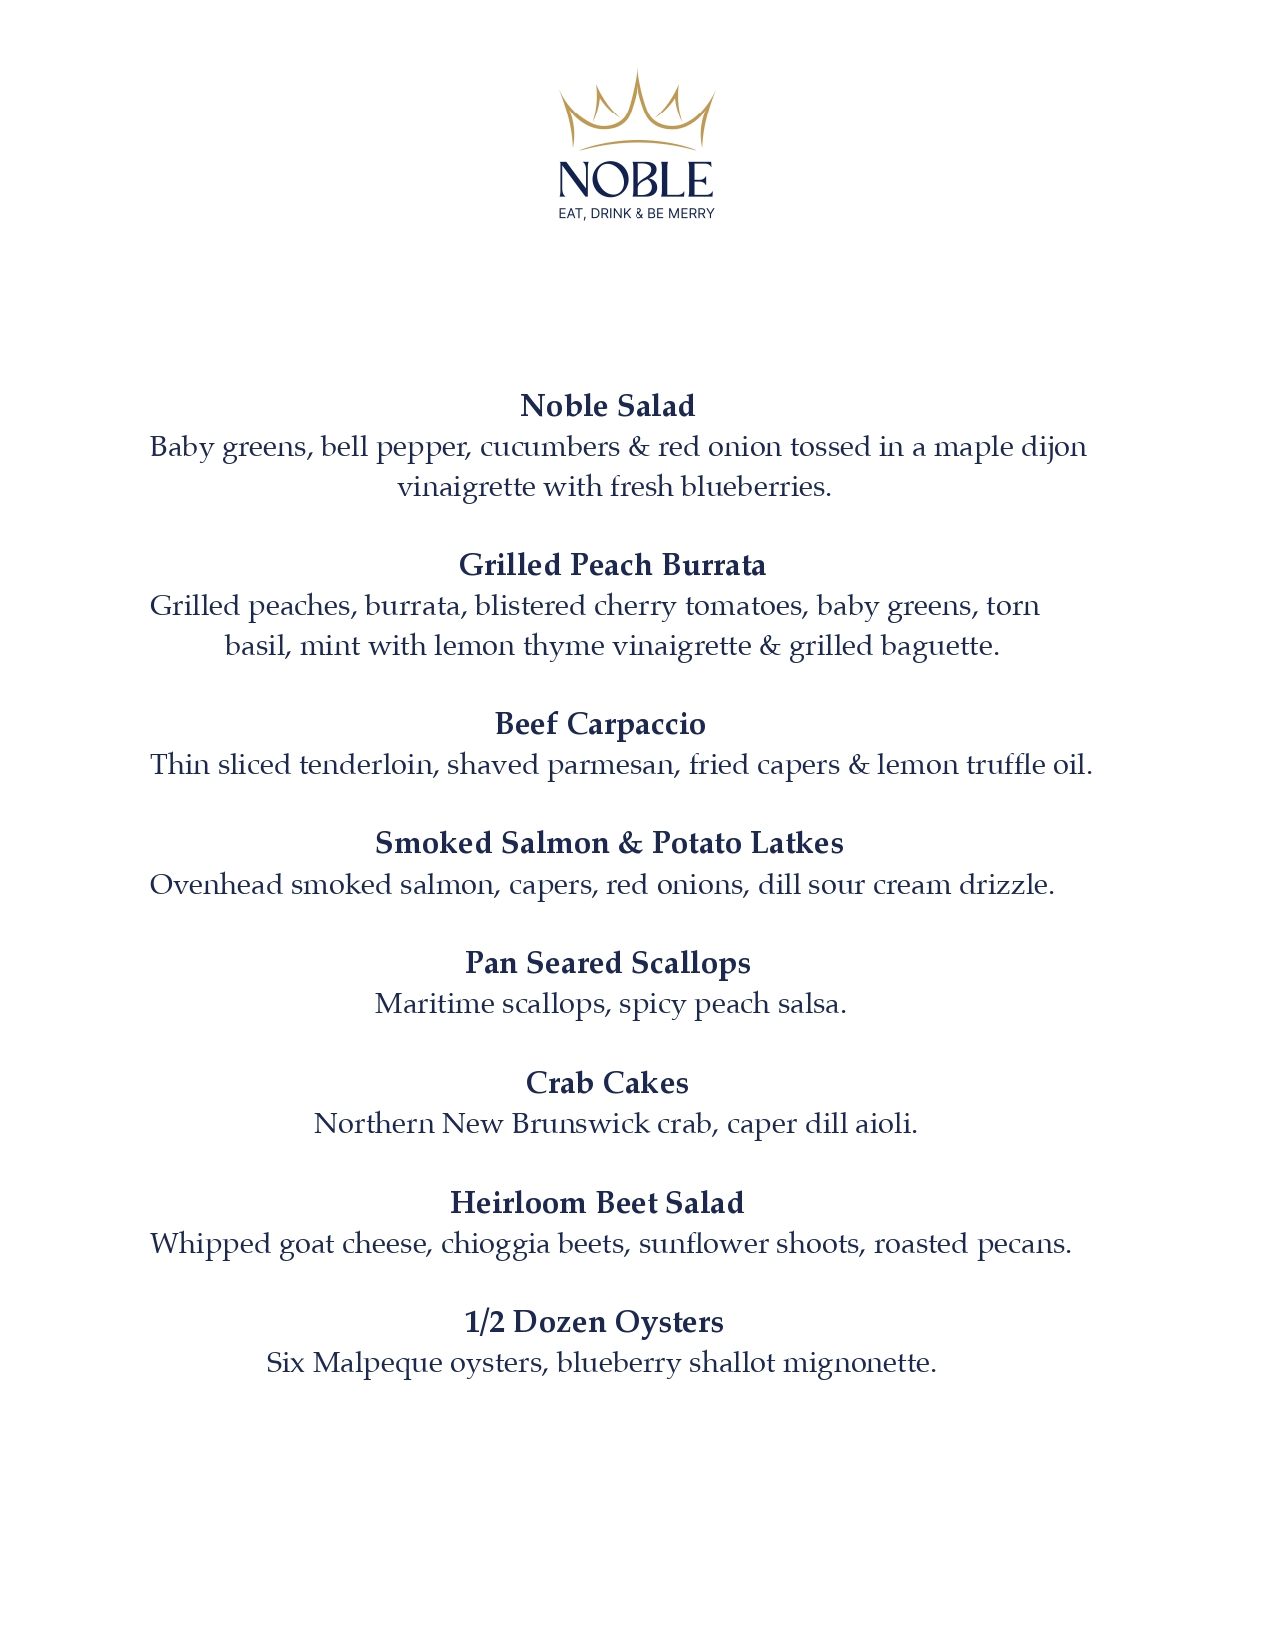
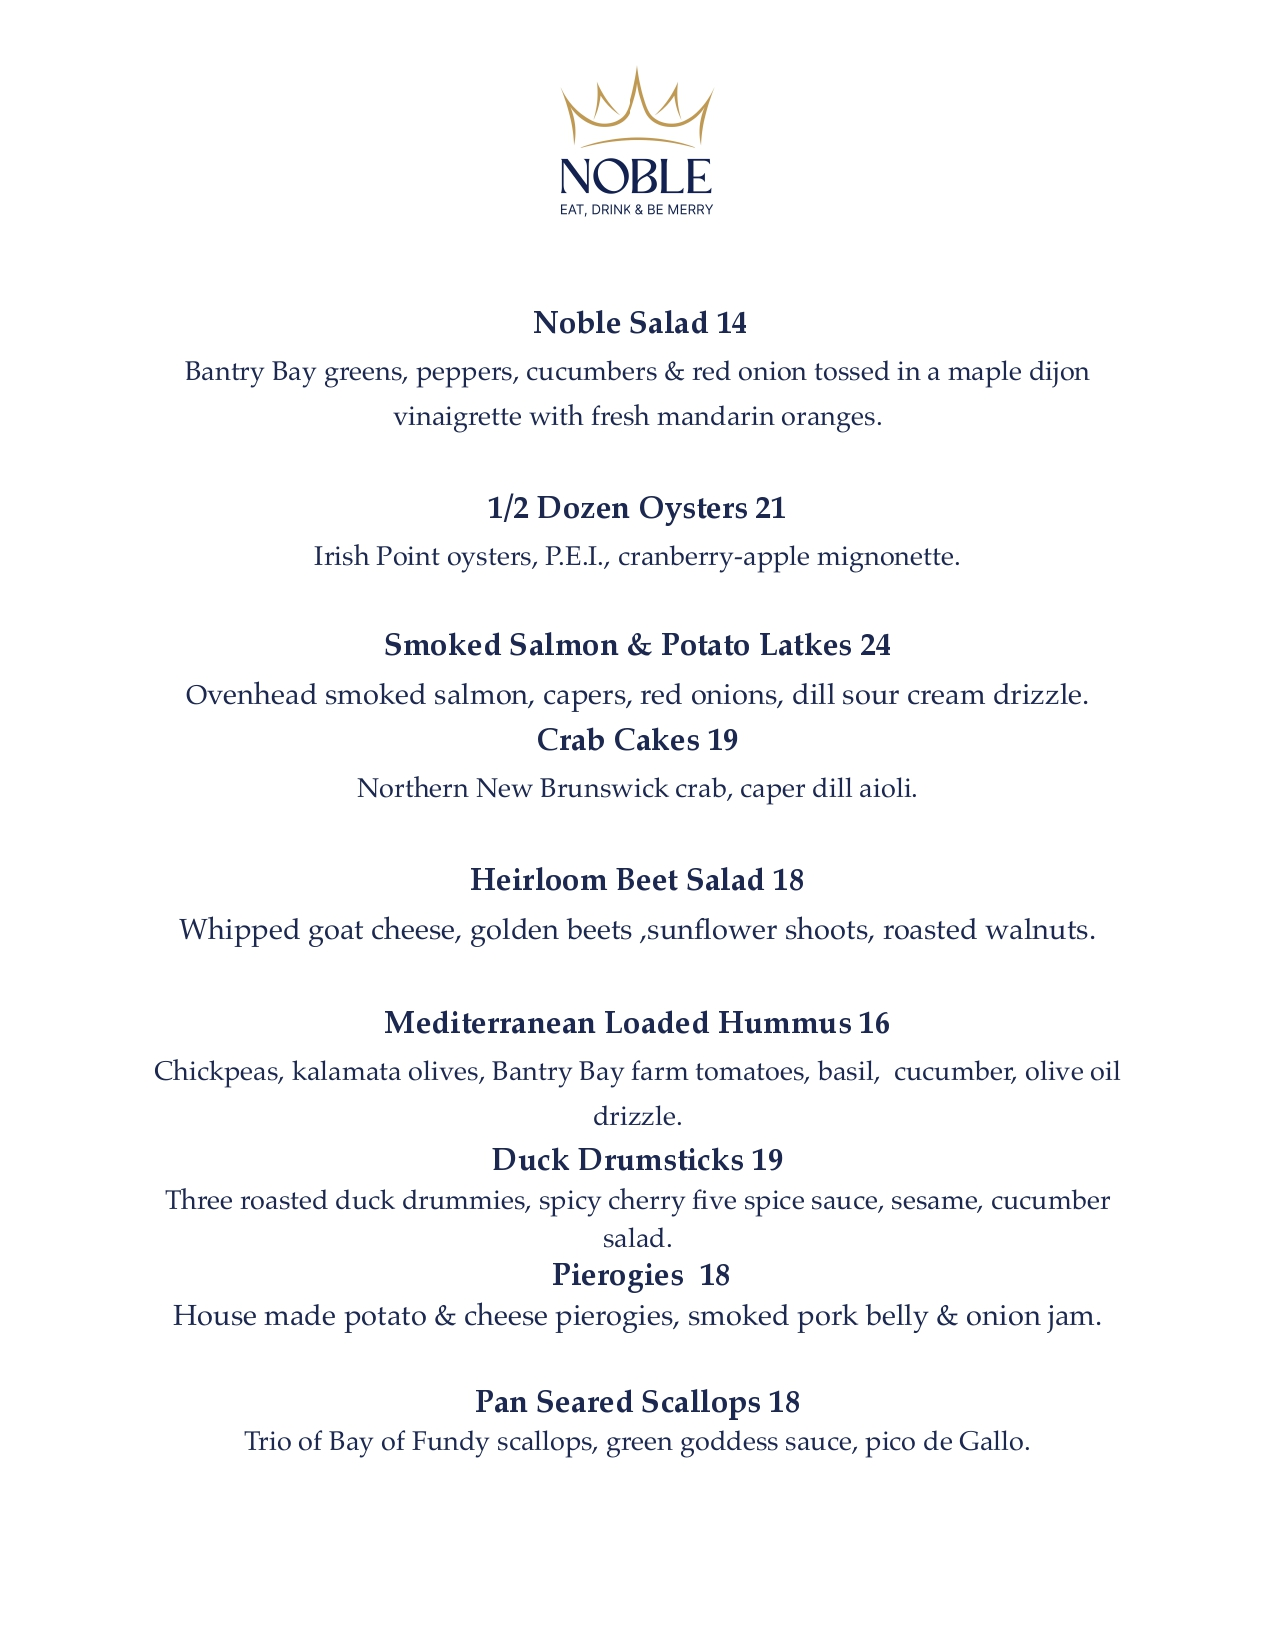
Updated menus and images
Updated menus as instructed by Lysa and replaced some images with more recent dishes

diff --git a/src/components/MenuSection.vue b/src/components/MenuSection.vue
@@ -1,7 +1,7 @@
 <script setup>
 import { ref, computed } from "vue";
 
-const selectedMenu = ref("NOBLELunchMenu");
+const selectedMenu = ref("NOBLEBrunchMenu");
 
 const jpgSrc1 = computed(() => {
   return `/menus/${selectedMenu.value}P1.jpg`;
@@ -9,22 +9,30 @@ const jpgSrc1 = computed(() => {
 const jpgSrc2 = computed(() => {
   return `/menus/${selectedMenu.value}P2.jpg`;
 });
+const jpgSrc3 = computed(() => {
+  return `/menus/${selectedMenu.value}P3.jpg`;
+});
 </script>
 
 <template>
   <section class="p-6 max-w-4xl mx-auto">
-    <h1 class="text-3xl font-homemadeapple mb-4 text-center text-noblenavy">Our Menus</h1>
+    <h1 class="text-3xl font-homemadeapple mb-4 text-center text-noblenavy">
+      Our Menus
+    </h1>
 
     <div class="mb-6 text-center">
-      <label for="menuSelect" class="mr-2 font-inter text-noblenavy">Choose a menu:</label>
+      <label for="menuSelect" class="mr-2 font-inter text-noblenavy"
+        >Choose a menu:</label
+      >
       <select
         id="menuSelect"
         v-model="selectedMenu"
         class="border border-noblenavy px-2 py-1 rounded text-noblenavy"
       >
-        <option value="NOBLELunchMenu">Lunch</option>
-        <option value="NOBLEHappyHourMenu">Happy Hour</option>
+        <option value="NOBLEBrunchMenu">Brunch</option>
+        <option value="NOBLELunchCocktailMenu">Brunch Cocktails</option>
         <option value="NOBLEDinnerMenu">Dinner</option>
+        <option value="NOBLEDinnerCocktailMenu">Dinner Cocktails</option>
       </select>
     </div>
 
@@ -35,9 +43,15 @@ const jpgSrc2 = computed(() => {
         class="border border-noblenavy w-full h-full"
       />
       <img
-        v-if="selectedMenu !== 'NOBLEHappyHourMenu'"
+        v-if="selectedMenu !== 'NOBLEBrunchMenu'"
         :src="jpgSrc2"
         alt="Noble Menu Page 2"
+        class="border border-noblenavy w-full h-full"
+      />
+      <img
+        v-if="selectedMenu === 'NOBLEDinnerMenu'"
+        :src="jpgSrc3"
+        alt="Noble Menu Page 3"
         class="border border-noblenavy w-full h-full"
       />
     </div>

diff --git a/src/components/MenuHero.vue b/src/components/MenuHero.vue
@@ -1,12 +1,18 @@
-<script setup></script>
+<script setup>
+import { useWindowSize } from "@vueuse/core";
+
+const { width } = useWindowSize();
+</script>
 
 <template>
   <section>
-    <div class="herosection w-full h-100 bg-cover bg-center bg-[url(/images/menuhero.jpg)]">
+    <div
+      class="herosection w-full h-100 bg-cover bg-center bg-[url(/images/food7.jpg)] md:bg-[url(/images/menuhero.png)]"
+    >
       <nav>
         <router-link to="/">
           <img
-            class="absolute w-36 h-auto ml-2"
+            class="absolute w-36 h-auto ml-2 mt-6 md:mt-0"
             src="/images/NobleLogoWhite.png"
           />
         </router-link>
@@ -37,7 +43,7 @@
       <h1 class="text-3xl md:text-6xl font-kingred py-3 px-15 text-driftwood">
         NOBLE Menu
       </h1>
-      <p class="font-inter text-driftwood py-4 px-15">
+      <p class="font-inter text-driftwood py-4 px-5 md:px-15">
         At NOBLE, we believe that the freshest flavors come from our community.
         That’s why we proudly partner with local farmers, growers, and artisans
         to bring you ingredients at their seasonal peak. Our menu is a

diff --git a/src/components/SidebarMenu.vue b/src/components/SidebarMenu.vue
@@ -7,8 +7,8 @@ const toggleMenu = () => {
 </script>
 
 <template>
-  <div class="md:hidden top absolute right-0 w-full z-50">
-    <div class="flex p-4 text-noblenavy">
+  <div class="md:hidden top absolute right-0 w-full bg-noblenavy/75 z-50">
+    <div class="flex p-4 text-white">
       <button @click="toggleMenu" class="focus:outline-none">
         <svg
           class="w-6 h-6"
@@ -24,7 +24,7 @@ const toggleMenu = () => {
       </button>
     </div>
 
-    <div v-if="menuOpen" class="bg-bordeaux/50 text-white text-end w-full">
+    <div v-if="menuOpen" class="text-white font-inter text-start w-full">
       <router-link to="/" class="block px-4 py-2 hover:bg-noblenavy"
         >Home</router-link
       >

diff --git a/src/components/AboutSection.vue b/src/components/AboutSection.vue
@@ -1,8 +1,4 @@
-<script setup>
-import { useWindowSize } from "@vueuse/core";
-
-const { width } = useWindowSize();
-</script>
+<script setup></script>
 
 <template>
   <div class="grid grid-cols-2">
@@ -18,7 +14,7 @@ const { width } = useWindowSize();
   </div>
 
   <div
-    class="bg-bordeaux w-full grid sm:grid-cols-2 grid-cols-1 py-3 px-2 gap-2 lg:divide-white"
+    class="bg-bordeaux w-full grid sm:grid-cols-2 grid-cols-1 py-3 px-2 gap-4 lg:divide-white"
   >
     <div class="contact-div px-1.5">
       <p class="font-homemadeapple text-white text-2xl py-1.5">Contact us!</p>

diff --git a/src/components/HomeSection.vue b/src/components/HomeSection.vue
@@ -8,7 +8,7 @@ const { width } = useWindowSize();
   <section>
     <div v-if="width < 640" class="pt-4">
       <!-- first mobile image-->
-      <img src="/images/food8.jpg" class="w-full h-128 object-cover" />
+      <img src="/images/food1.jpg" class="w-full h-128 object-cover" />
     </div>
     <div
       class="sm:absolute flex flex-col bg-bordeaux justify-center text-white text-center sm:mt-4 py-8 px-4 font-kingred text-md leading-relaxed col-span-2"

diff --git a/src/components/HomeHero.vue b/src/components/HomeHero.vue
@@ -8,7 +8,7 @@
       <nav>
         <a href="/">
           <img
-            class="absolute w-36 h-auto ml-2"
+            class="absolute w-36 h-auto ml-2 mt-6 md:mt-0"
             src="/images/NobleLogoNobleNavy.png"
         /></a>
         <ul class="hidden md:flex justify-center pt-8 gap-x-4 font-inter">

diff --git a/src/App.vue b/src/App.vue
@@ -2,6 +2,9 @@
 import Banner from "../src/components/Banner.vue";
 import SidebarMenu from "../src/components/SidebarMenu.vue";
 import Footer from "../src/components/Footer.vue";
+import { useWindowSize } from "@vueuse/core";
+
+const { width } = useWindowSize();
 </script>
 
 <template>

diff --git a/src/components/AboutHero.vue b/src/components/AboutHero.vue
@@ -8,7 +8,7 @@
       <nav>
         <router-link to="/">
           <img
-            class="absolute w-36 h-auto ml-2"
+            class="absolute w-36 h-auto ml-2 mt-6 md:mt-0"
             src="/images/NobleLogoWhite.png"
           />
         </router-link>
